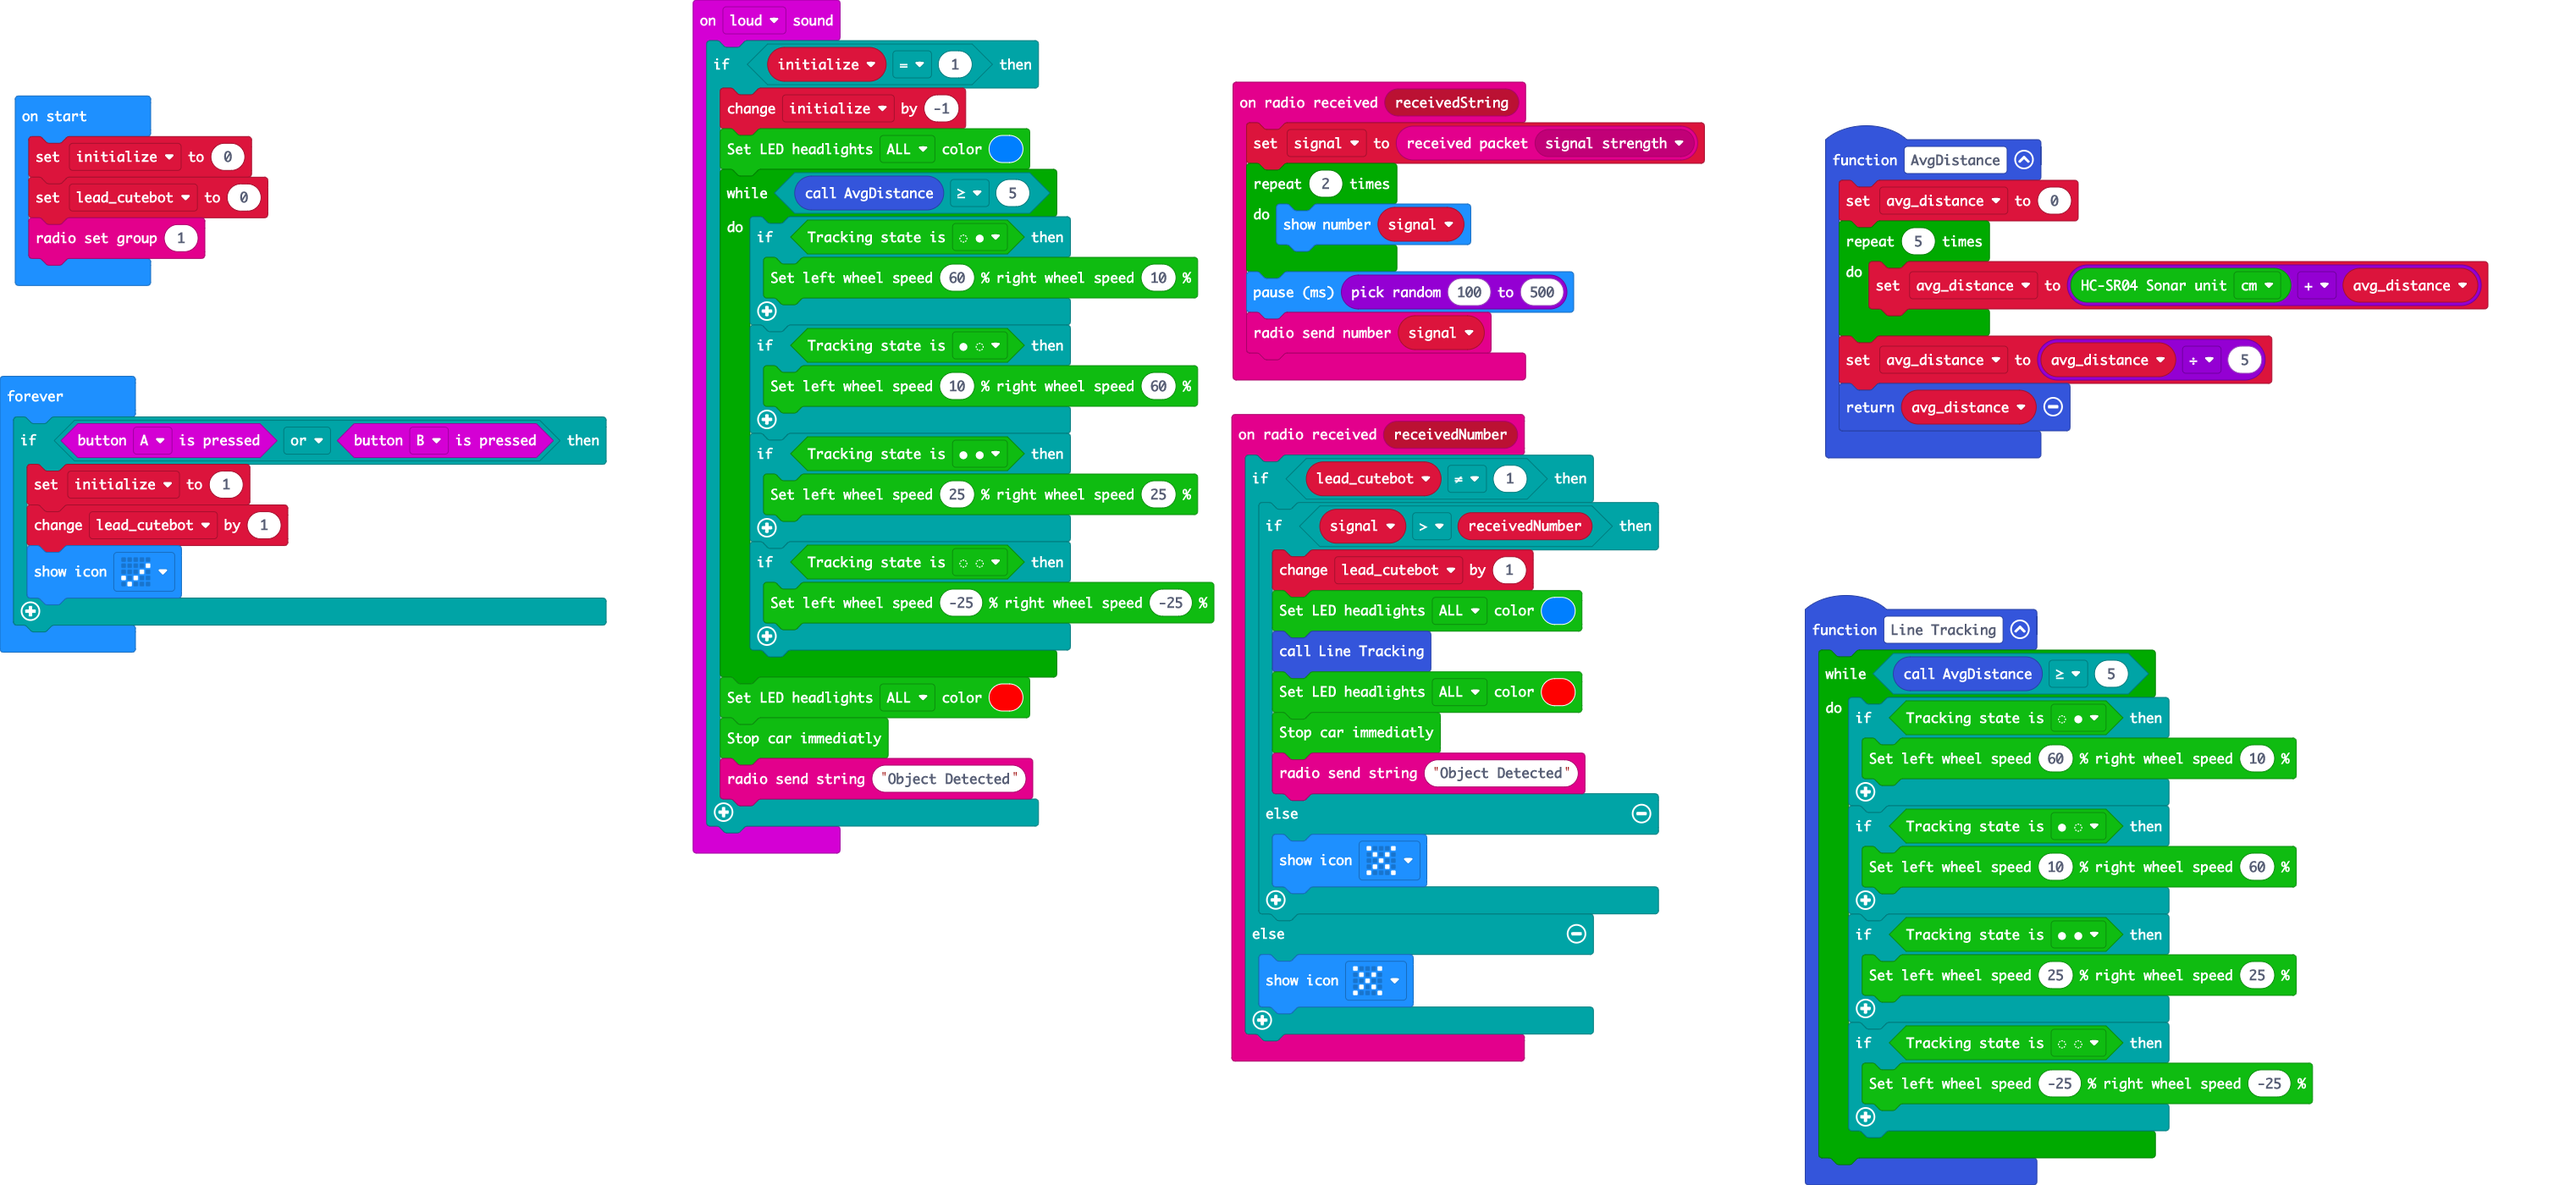
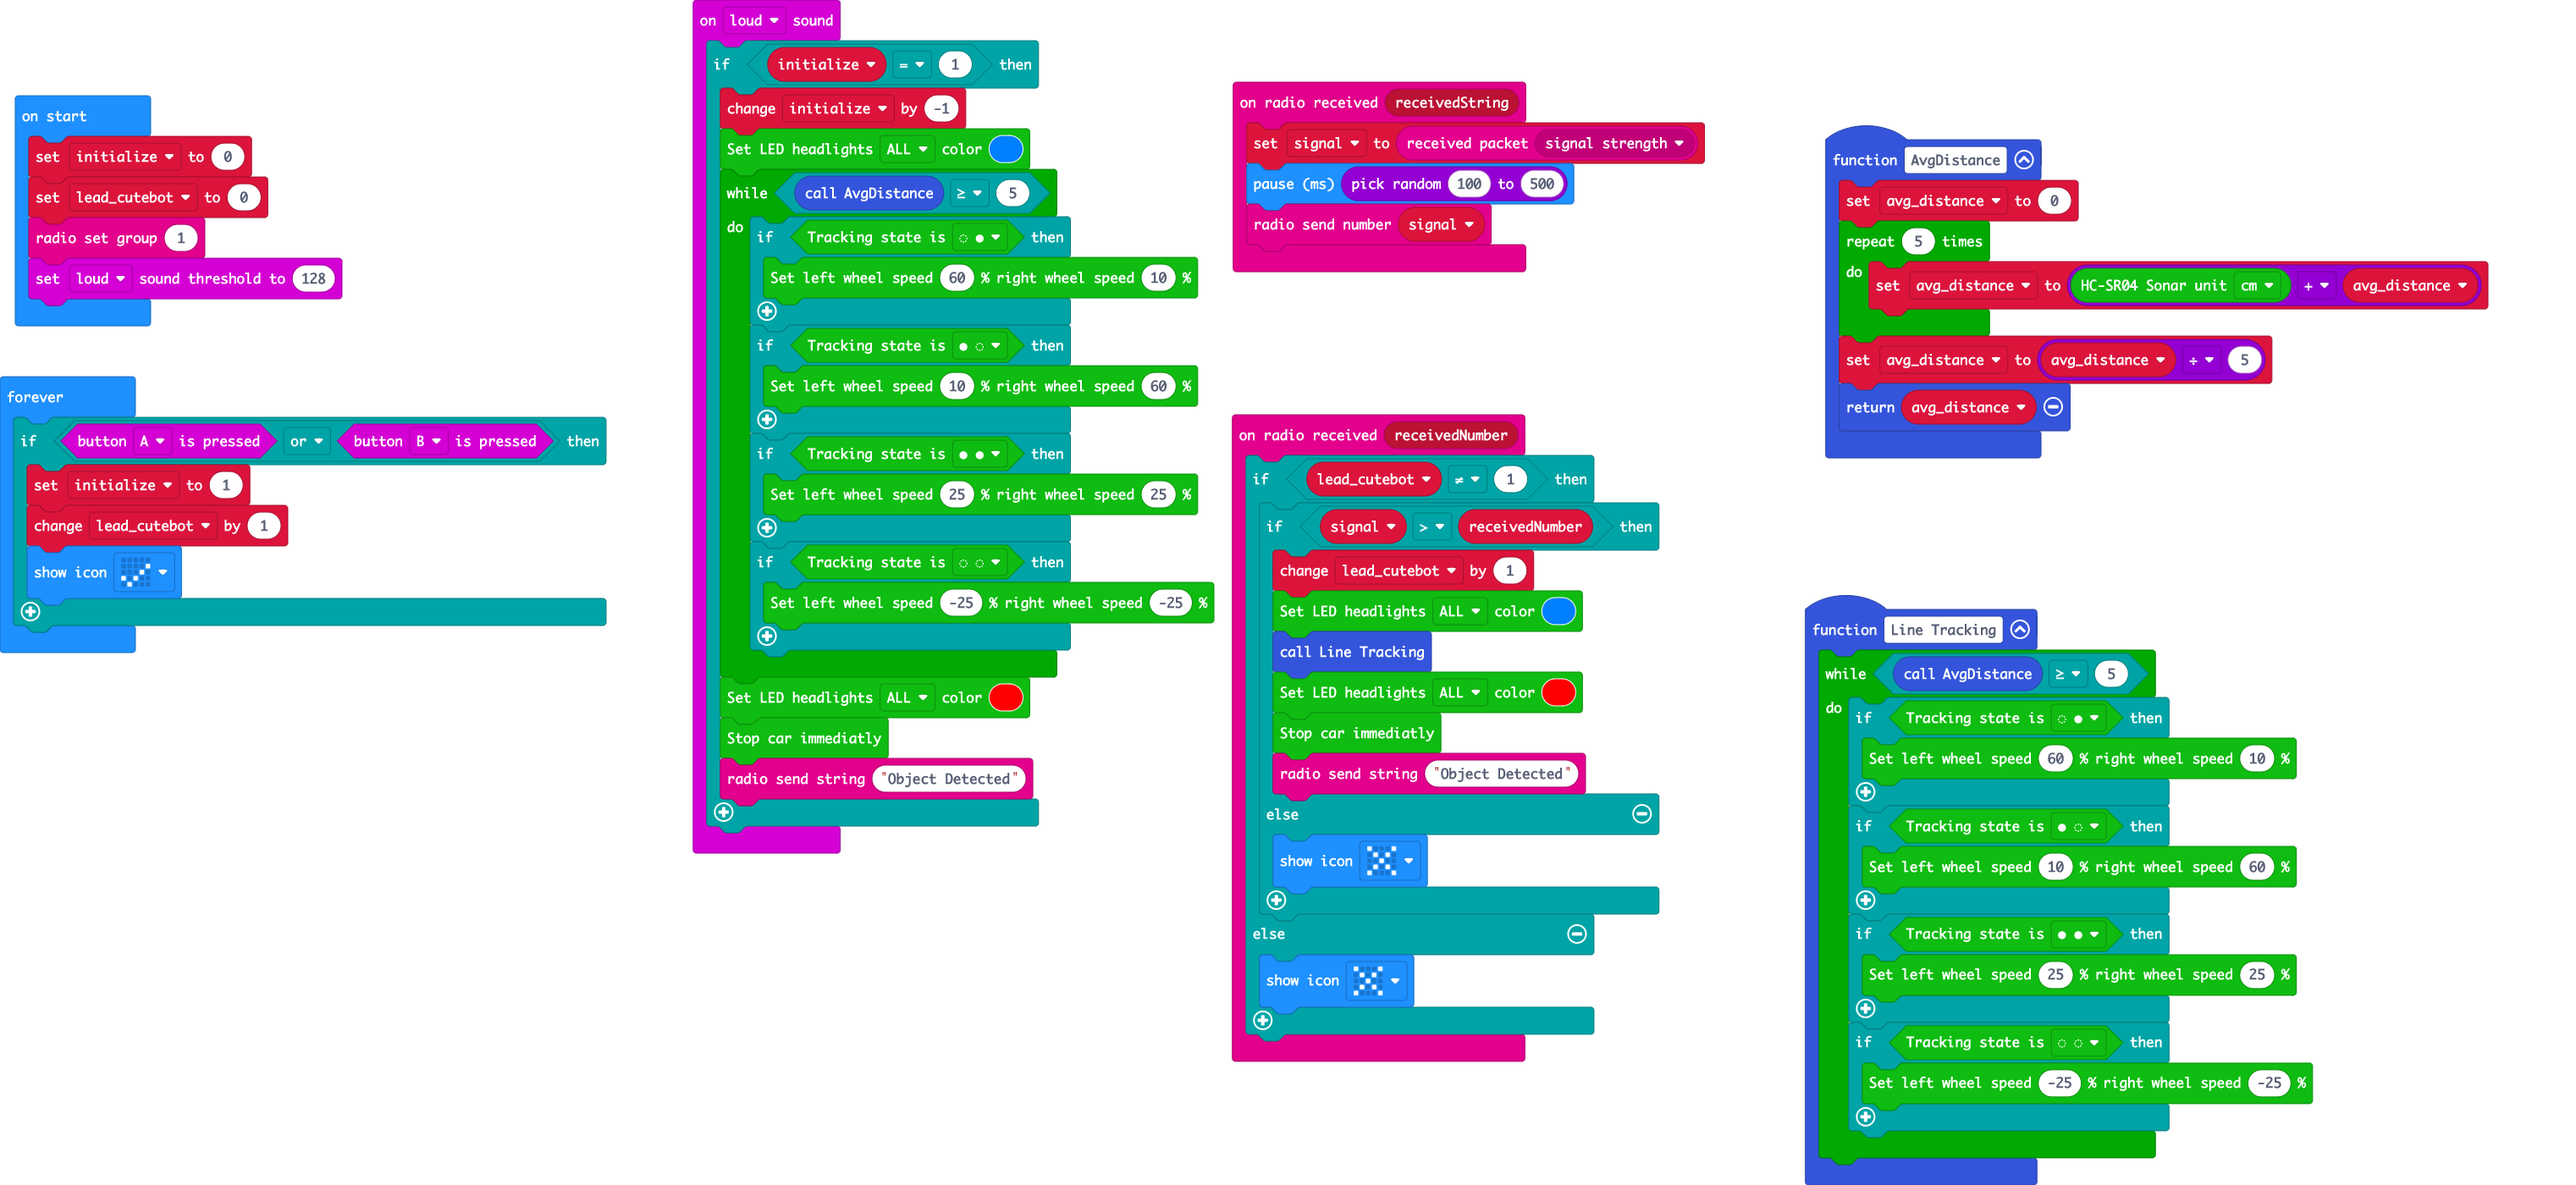
Minor bug fixes

diff --git a/main.ts b/main.ts
@@ -47,9 +47,6 @@ input.onSound(DetectedSound.Loud, function () {
 })
 radio.onReceivedString(function (receivedString) {
     signal = radio.receivedPacket(RadioPacketProperty.SignalStrength)
-    for (let index = 0; index < 2; index++) {
-        basic.showNumber(signal)
-    }
     basic.pause(randint(100, 500))
     radio.sendNumber(signal)
 })
@@ -76,6 +73,7 @@ let initialize = 0
 initialize = 0
 lead_cutebot = 0
 radio.setGroup(1)
+input.setSoundThreshold(SoundThreshold.Loud, 128)
 basic.forever(function () {
     if (input.buttonIsPressed(Button.A) || input.buttonIsPressed(Button.B)) {
         initialize = 1
